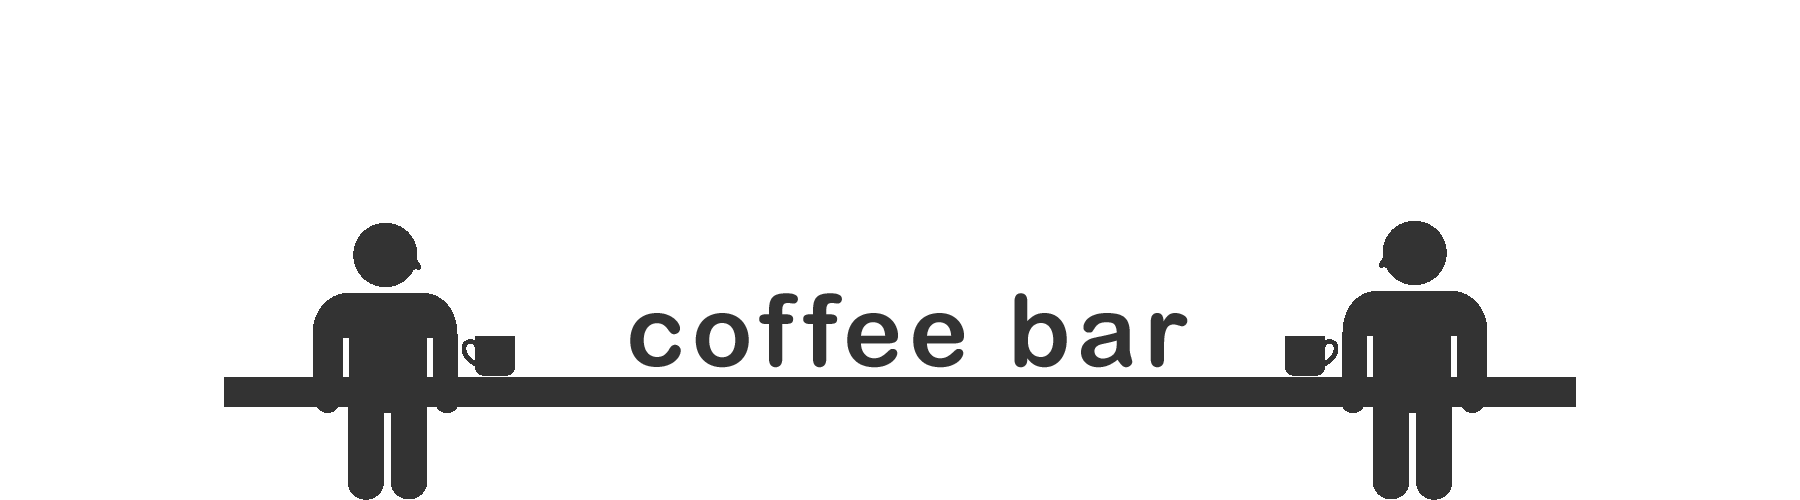
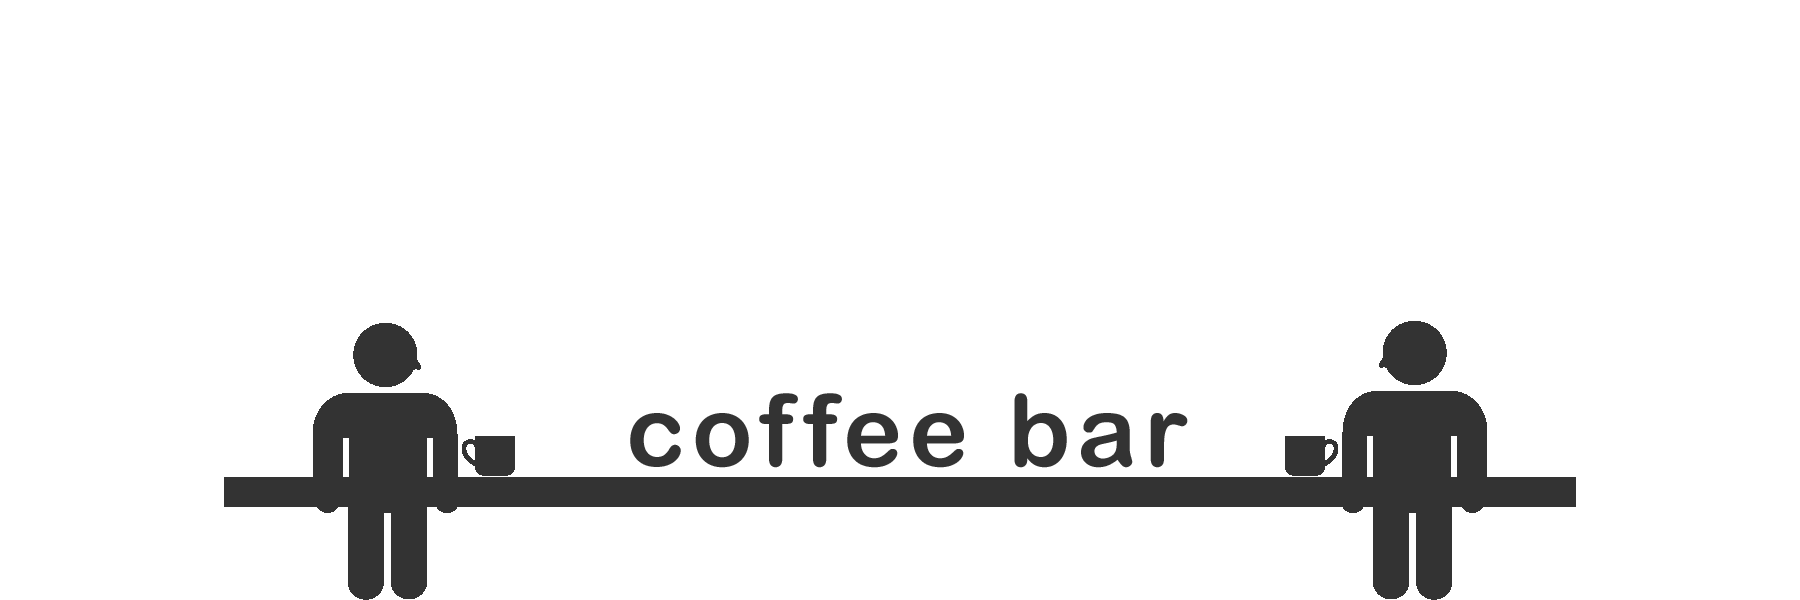
coffeebar zoom

Changed region(s): [[0.1244, 0.42, 0.9022, 0.87]]

diff --git a/index.html b/index.html
@@ -194,6 +194,7 @@ class App  {
 		this.roomPortals=[];																		// Portals for this room
 		this.hallPos={};																			// Hallway position
 		this.curContent="";																			// Current floor's content
+		this.coffeebarLink="";																		// Alternative link for main coffeebar
 		if (window.location.host == "localhost") this.ws=new WebSocket('ws://'+window.location.host+':8080');	// Open insecure websocket											
 		else									 this.ws=new WebSocket('wss://'+window.location.host+':8080');	// Secure											
 		this.ws.onmessage=(e)=>{ this.SocketIn(e); };												// ON INCOMING MESSAGE
@@ -345,8 +346,6 @@ class App  {
 			let d=JSON.parse(v[2]);																	// Objectify
 			let i=this.pIndex[d.id];																// Get index
 			if (d) this.people[i]=d;																// Set data								
-			$("#co-At-"+i).html(`${d.firstName}<br>${d.lastName}`);									// Set label
-			setTimeout(()=>{ $("#co-Ap-"+i).prop("src",d.pic ? d.pic : "img/avyou.png"); },5000);	// Wait 5 secs so it's in S3 and set image
 			}
 		else if (v[0].charAt(0) == "K") 	this[v[0]]=v[1];										// Set ks
 		}
@@ -390,8 +389,10 @@ class App  {
 			}
 		else if (targetId.match(/co-coffee/)) {														// ON COFFEE BAR
 			let id=targetId.substr(10);                                                             // Which one?
-   		    this.status="B"+id;                                                  					// Update me
- 			this.sced.ShowLink("japp.htm?/~"+this.meetingId+"~coffeebar-"+this.curFloor+"-"+id); 	// Go to the coffee bar 
+ 			this.status="B"+id;                                                  					// Update me
+  		    let str="japp.htm?/~"+this.meetingId+"~coffeebar-"+this.curFloor+"-"+id;				// Assume Jitsi
+ 			if ((this.status == "B0-0") && this.coffeebarLink) 	str=this.coffeebarLink;				// Use spec'd link for main bar
+			this.sced.ShowLink(str); 																// Go to the coffee bar 
 //			for (let i=0;i<this.people.length;++i) { this.people[i].stats="B0-0"; $("#co-Av-"+i).show() };													
 			}
 		else{																						// General click
@@ -419,7 +420,6 @@ class App  {
 		if (app.ws)	app.ws.send(`L|${app.people[app.myId].id}|${app.curFloor}|${x}|${y}|${status}`);// Send Location message
 	}
 
-
 	GoToCenter()																				// MOVE TO CENTER HALL OR SPECIFIC SPOY
 	{
 		let x=(Math.random()*20+40)/100;															// Hover X in center
@@ -436,7 +436,7 @@ class App  {
 		let nr=this.venue[cf].length;																// Number of rooms on current floor
 		if ($("#co-coffee-"+cf+"-0").length) {														// If a main coffee bar
       		x=$("#co-coffee-"+cf+"-0").offset().left+30;                                    		// left side of bar
-       		y=$("#co-coffee-"+cf+"-0").offset().top-8;                      			 			// On top of bar area
+       		y=$("#co-coffee-"+cf+"-0").offset().top+8;                      			 			// On top of bar area
     		w=$("#co-coffee-"+cf+"-0").width()-60-avSize;                                  			// Width of space
    			}
 		for (i=0;i<this.people.length;++i) {														// For each person
@@ -553,6 +553,10 @@ class App  {
 			o=sced[i];																					// Point at it
 			o.start=this.sced.TimeToMins(o.start,off-0);												// Start to mins
 			o.end=this.sced.TimeToMins(o.end,0);														// Duration to mins
+			if (o.link && (o.floor == 0) && (o.room == 0) && o.link.match(/^coffeebar/i)) {				// Set main coffee bar link
+				app.coffeebarLink=o.link.substring(10);													// Set in app
+				o.link="";																				// Remove from even itself
+				}
 			}		
 		this.sced.offset=off;																			// Set offset
 		this.sced.schedule=sced;																		// Set data
@@ -611,9 +615,10 @@ class App  {
 		if (p.avSize)		avSize=p.avSize-0;															// Use size if set
 		if (p.vRoom >= 0)	this.vr="#co-Rm-"+p.vRoom;													// Use video room if set
 		
-		let menu=`<div style="width:100%;text-align:left;position:absolute;top:calc(100% - ${avSize+44}px)">
+		let menu=`<div style="z-index:0;width:100%;text-align:left;position:absolute;top:calc(100% - ${avSize+44}px)">
 			<img src="img/quietarea.png" id="co-quiet" style="height:${avSize+8}px;cursor:pointer;margin-left:8px" title="Go private">
-			<img id="co-coffee-${this.curFloor}-0" style="width:264px;margin-left:calc(50% - 132px - ${avSize+16}px)" src="img/coffeebar.png">
+			<img id="co-coffee-${this.curFloor}-0" style="width:264px;margin-top:-12px;margin-left:calc(50% - 132px - ${avSize+16}px);z-index:3" 
+			src="img/coffeebar.png">
 			<div style="float:right;margin:16px 8px 0 0">			
 				<img src="img/schedule.png" id="co-schedule"  style="height:36px;cursor:pointer;margin-right:8px;margin-top:20px" title="See meeting schedule">
 				<img src="img/people.png" 	id="co-attendees" style="height:36px;cursor:pointer;margin-right:8px;margin-top:20px" title="See other attendees">`;

diff --git a/small/index.html b/small/index.html
@@ -174,6 +174,8 @@ class App  {
 		this.retryWS=false;																			// Reconnecting to web socket
 		this.curItem=2;																				// Current agenda item
 		this.KZ="";																					// Ks
+		this.curContent="";																			// Current floor's content
+		this.coffeebarLink="";																		// Alternative link for main coffeebar
 		if (isLocal) this.ws=new WebSocket('ws://'+window.location.host+':8080');					// Open insecure websocket											
 		else		 this.ws=new WebSocket('wss://'+window.location.host+':8080');					// Secure											
 		this.ws.onmessage=(e)=>{ this.SocketIn(e); };												// ON INCOMING MESSAGE
@@ -305,8 +307,6 @@ class App  {
 			let d=JSON.parse(v[2]);																	// Objectify
 			let i=this.pIndex[d.id];																// Get index
 			if (d) this.people[i]=d;																// Set data								
-			$("#co-At-"+i).html(`${d.firstName}<br>${d.lastName}`);									// Set label
-			setTimeout(()=>{ $("#co-Ap-"+i).prop("src",d.pic ? d.pic : "img/avyou.png"); },5000);	// Wait 5 secs so it's in S3 and set image
 			}
 		else if (v[0] == "B") {																		// BROADCAST
 			if (v[2].charAt() == "*") {																// If TTS
@@ -330,7 +330,9 @@ class App  {
 		targetId=targetId.replace(/co-AvMe/,"");													// It's just me
 		if (targetId.match(/co-coffee/)) {															// IN COFFEE BAR
 			this.status="B0";																		// Set status     
-			this.SetLink("japp.htm?/~"+this.meetingId+"~coffeebar-0-0"); 							// Go to the coffee bar 
+			let str="japp.htm?/~"+this.meetingId+"~coffeebar-0-0";									// Assume Jitsi
+ 			if ((this.status == "B0-0") && this.coffeebarLink) 	str=this.coffeebarLink;				// Use spec'd link for main bar
+			this.sced.ShowLink(str); 																// Go to the coffee bar 
 			}
 		else if (targetId.match(/co-room-/)) {														// IN A ROOM
 			i=targetId.substr(8);																	// Get id
@@ -358,7 +360,7 @@ class App  {
 
 	ArrangePeople()                                                                             // ARRANGE COFFEE BAR / ROOM MEMBERS
     {
-		let h,i,j,x2,inc,bar=[];
+		let h,i,j,o,x2,inc,bar=[];
      	let	x=$("#co-coffee").offset().left;                                    					// left side of bar
        	let w=$("#co-coffee").width()-avSize;                                  						// Width of space
        	let y=this.by-$("#co-coffee").height()-avSize+2;                       						// On top of bar area
@@ -367,9 +369,14 @@ class App  {
 		$("#co-adj-"+this.curItem).css("background-color","#d8c4ae");								// Hilite current one
 		$("#topicDiv").html(`<b>Current topic:</b><br>${$("#co-adj-"+this.curItem).text()}`);		// Table topic
 
-		for (i=0;i<this.people.length;++i) 															// For each person
-			if ((this.people[i].stats) == "B0") 	bar.push(i); 									// In a bar		
+		for (i=0;i<this.people.length;++i) {														// For each person
+			o=this.people[i];																		// Point at them
+			$("#co-At-"+i).html(`${o.firstName}<br>${o.lastName}`);									// Set label
+			$("#co-Ap-"+i).prop("src",o.pic ? o.pic : "img/avyou.png");								// Set image
+			$("#co-Av-").animate({ left:this.bx*o.x, top:this.by*o.y });							// Animate here	
+			if ((o.stats) == "B0") 	bar.push(i); 													// In a bar		
 			inc=avSize+2;                                                                          	// Spacing between barmates
+			}
 		if (bar.length > 1) inc=Math.min(inc,w/(bar.length-1));                                 	// Squeeze them in?
 		for (i=0;i<bar.length;++i) {                                                            	// For each barmate
 			if (bar[i] == this.myId) $("#co-AvMe").animate({ left:x, top:y},0)                  	// Move me
@@ -378,7 +385,7 @@ class App  {
 			if (j)  y+=inc;    else x+=inc;                                                  		// Advance
 			}
   
-		let o,n,ox,y2,rms=[ [],[],[],[] ];
+		let n,ox,y2,rms=[ [],[],[],[] ];
 		for (i=0;i<this.people.length;++i) {														// For each person
 			o=this.people[i];																		// Point at stats
 			if (o.stats && (o.stats.charAt(0) == "R"))  rms[o.stats.substr(1)].push(i);				// If in a room, add person to it

diff --git a/schedule.js b/schedule.js
@@ -234,7 +234,7 @@ class Schedule  {
 				window.open(link.substr(1),"_blank","width=99%");									// Open in new tab
 				return;																				// Quit
 				}
-				$(window).scrollTop(0)	
+			$(window).scrollTop(0);																	// Scroll to top	
 			if (link.match(/zapp.htm/i)) link+="&"+app.KZ;											// Add K for Zoom
 			if (link.match(/.app.htm/i)) {
 				link+="&"+app.people[app.myId].firstName+"-"+app.people[app.myId].lastName+"&"+app.people[app.myId].role;	//  and name 
